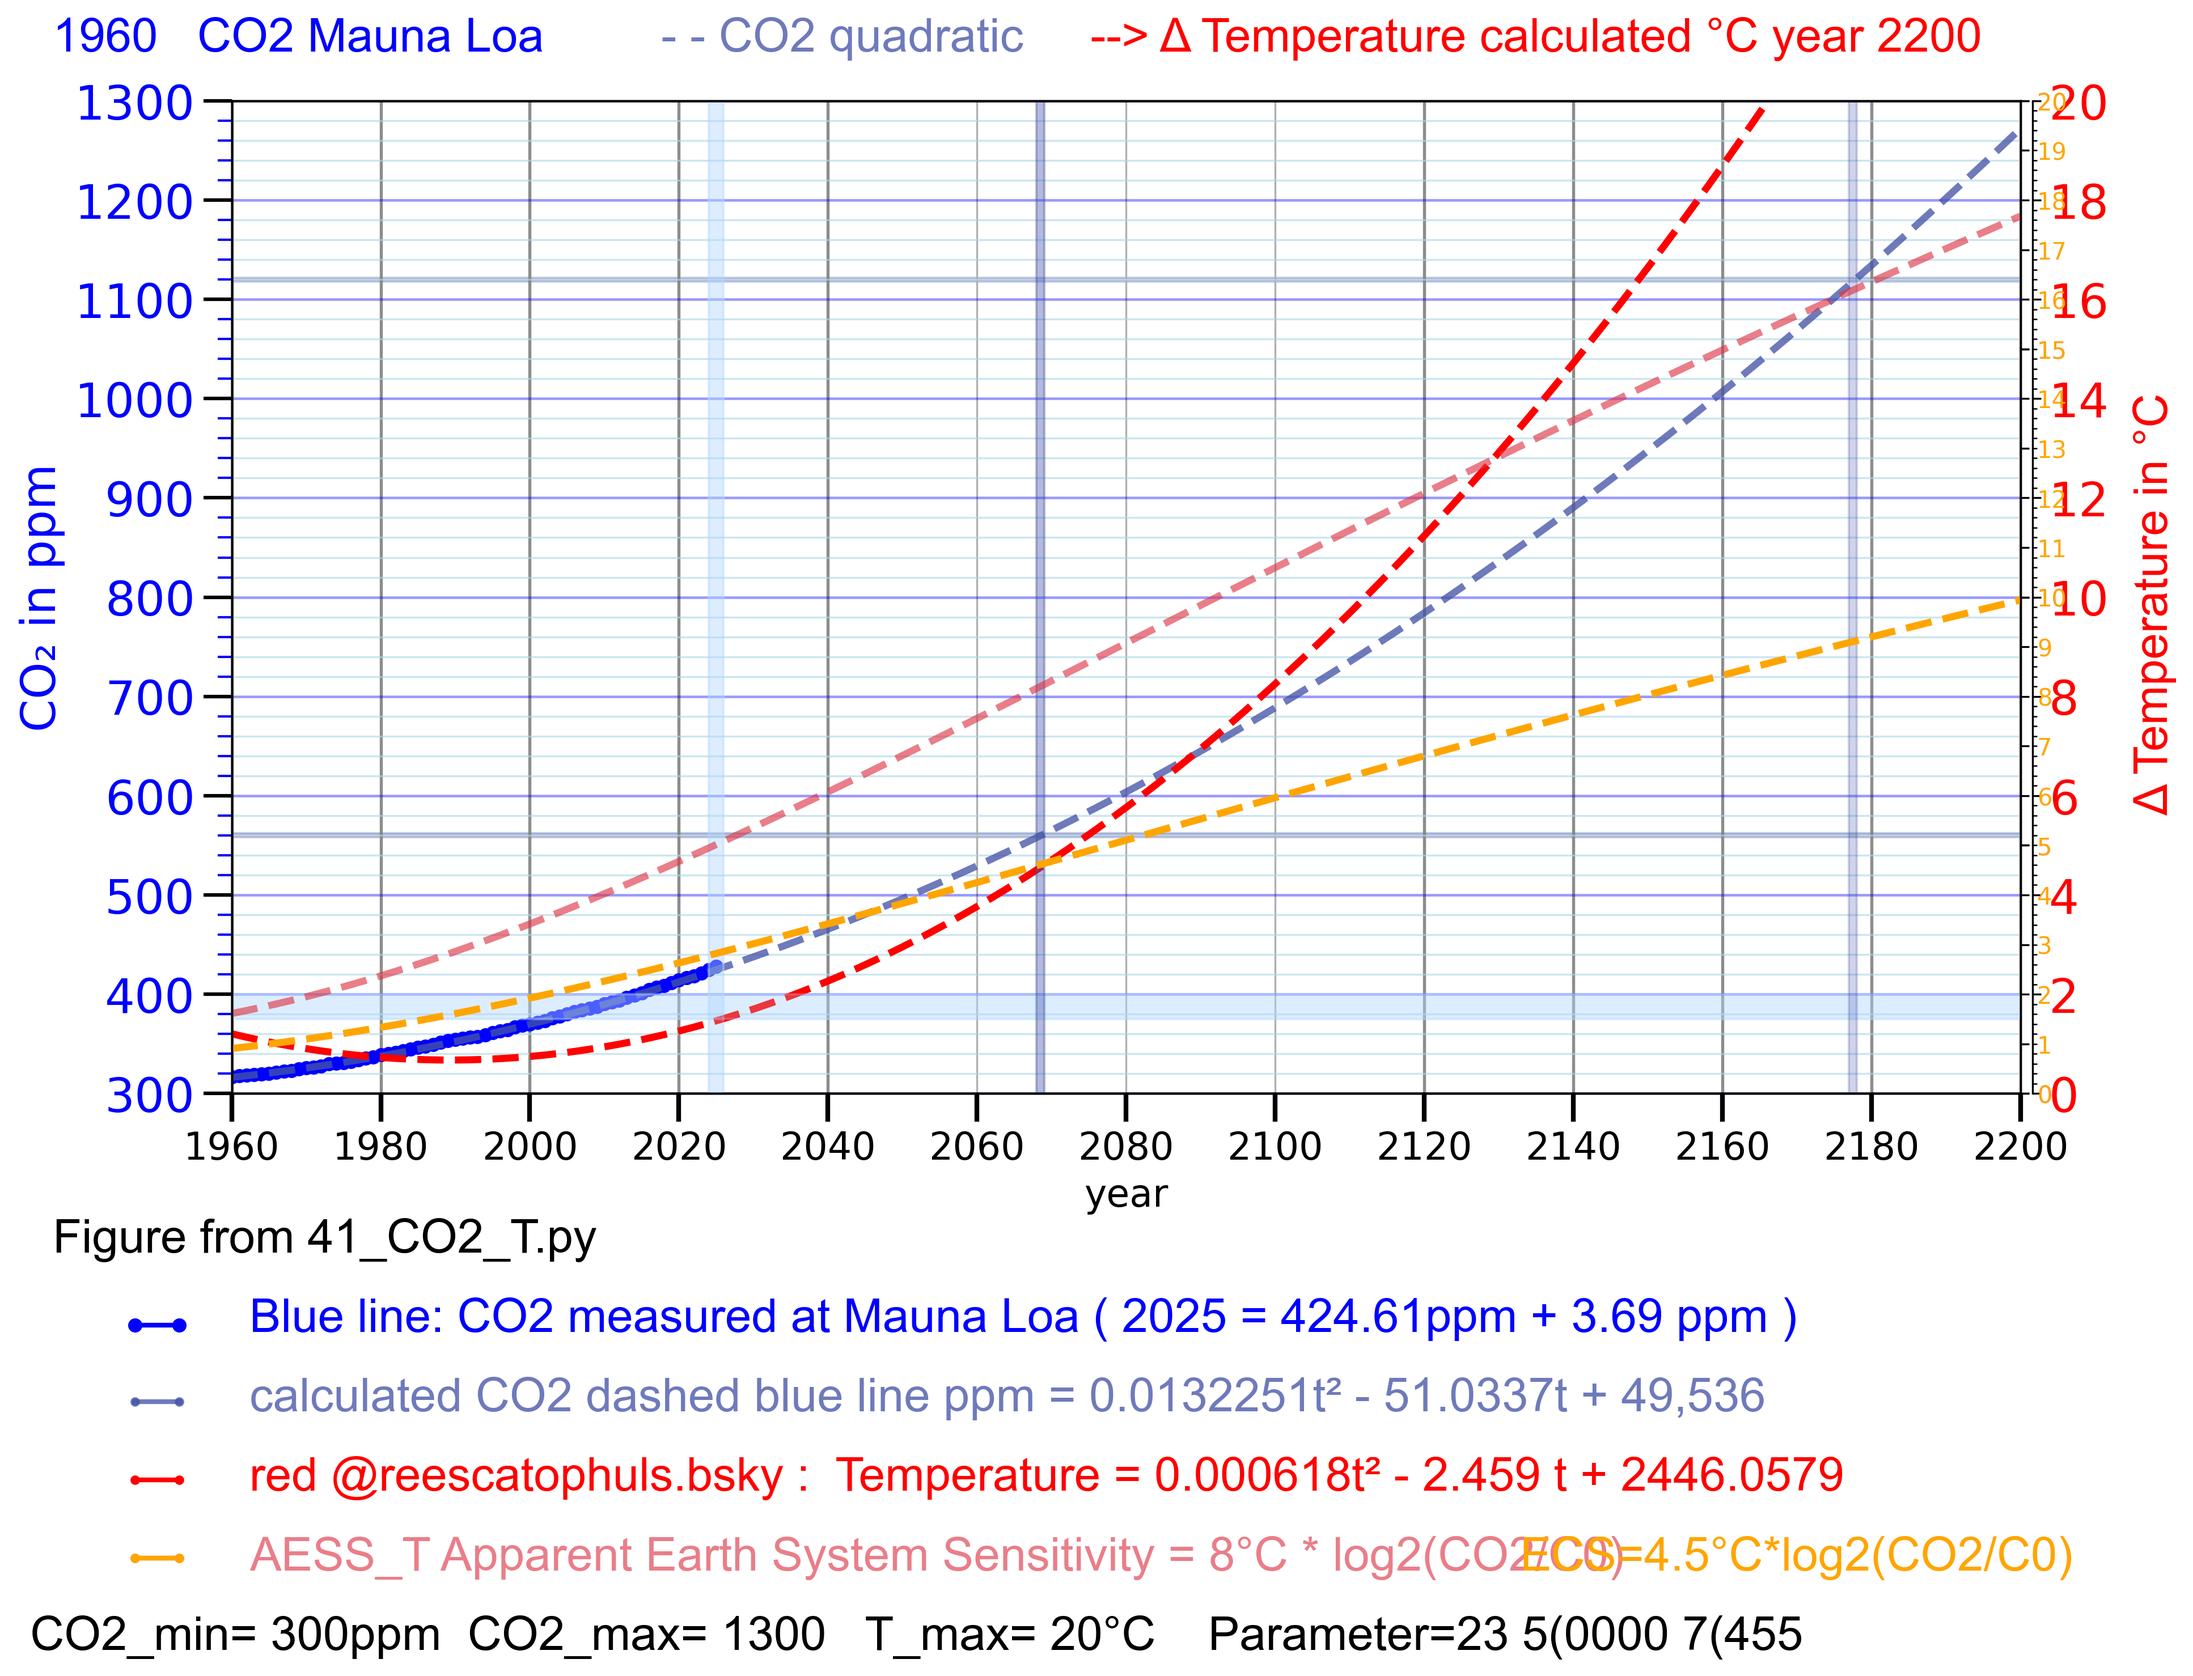
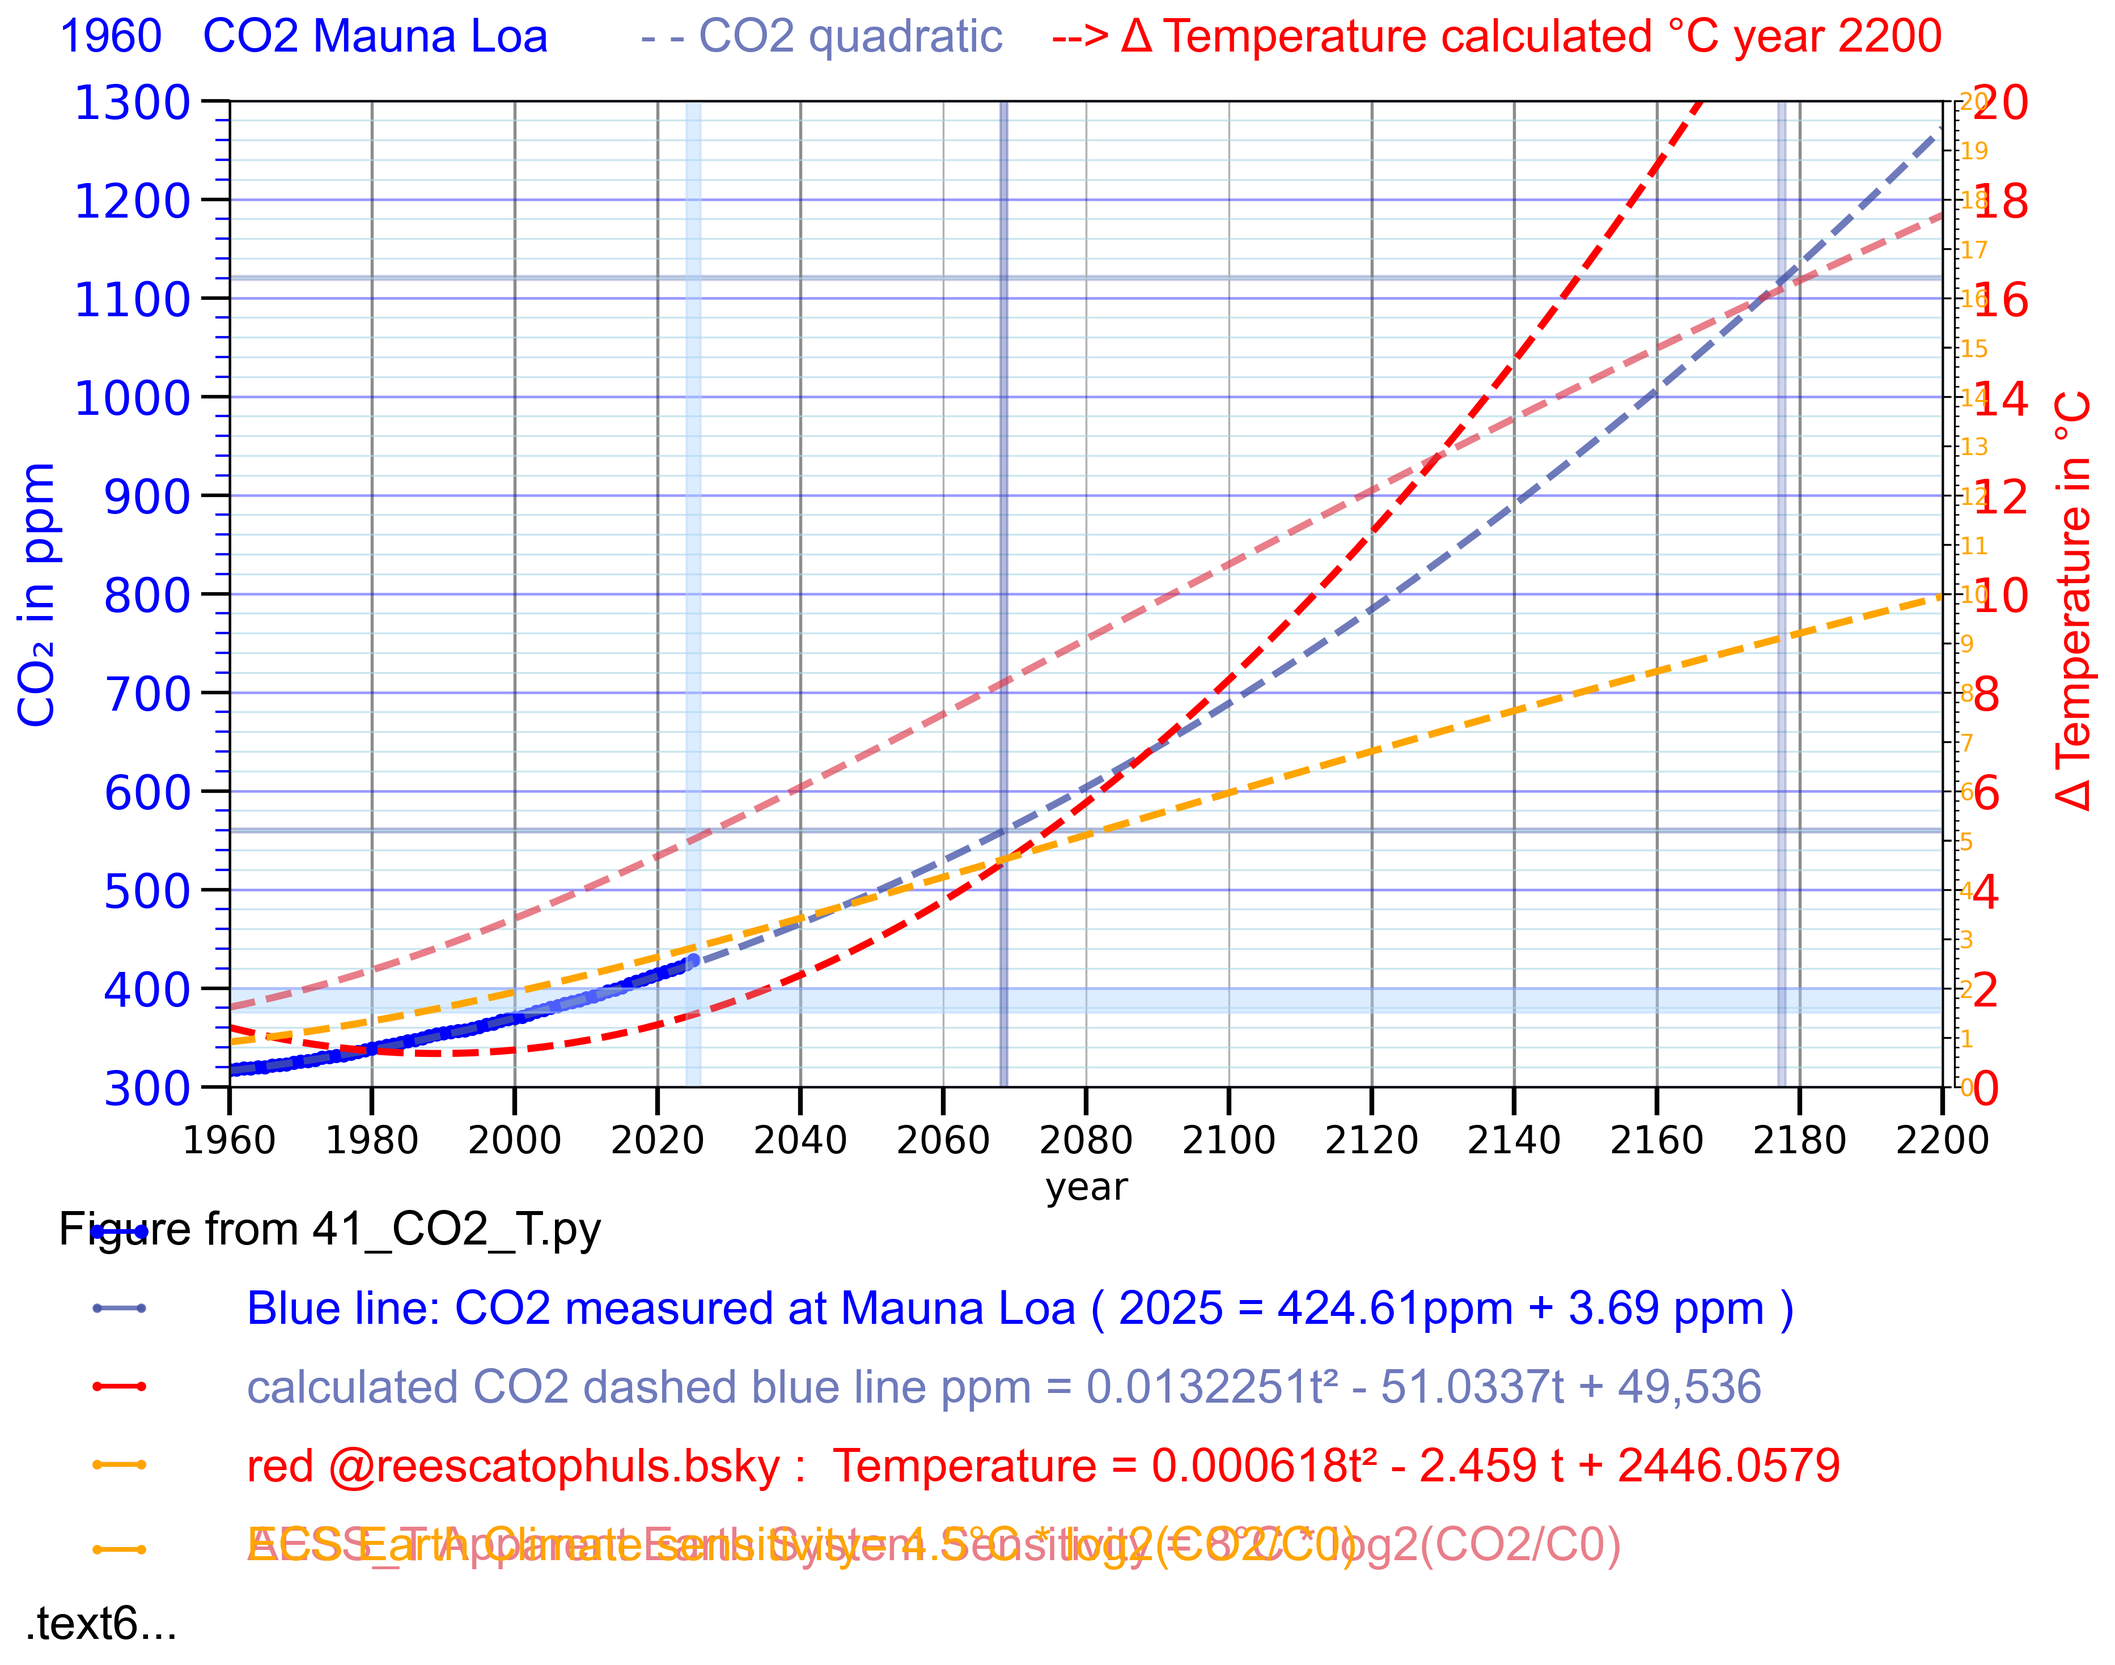
41p1_CO2_T.py line 6

diff --git a/41_CO2_T.py b/41_CO2_T.py
@@ -773,7 +773,7 @@ if plot73_ECS_T > 0:
    # 9.5.8 draw line72 as legend
    fig.add_artist(line73)
    # 9.5.8 write  text 
-   if plot72_AESS_T == 5:
+   if plot72_AESS_T == 5 and plot73_ECS_T == 5:
       red73_text="ECS=4.5°C*log2(CO2/C0)"
       plt.text(0.72, tr5y, red73_text, color=c73, fontname="Arial", fontsize=trs,
       transform=plt.gca().transAxes)
@@ -802,11 +802,11 @@ else: # plot73_ECS_T = 6
    fig.add_artist(line73)
    # 9.6.8 write  text 
    red73_text="ECS Earth Climate sensitivity= 4.5°C * log2(CO2/C0)"
-   text6 = f"."
+   text6 = f".text6..."
    plt.text(-0.12, -.56, text6 , color="black", fontname="Arial", fontsize=trs,
-       transform=plt.gca().transAxes)
-   plt.text(tr2x, tr6y, red73_text, color=c73, fontname="Arial", fontsize=trs,
-       transform=plt.gca().transAxes)
+      transform=plt.gca().transAxes)
+   #plt.text(-0.12, tr6y, red73_text, color=c73, fontname="Arial", fontsize=trs,
+   #    transform=plt.gca().transAxes)
 
 
 plt.show()
